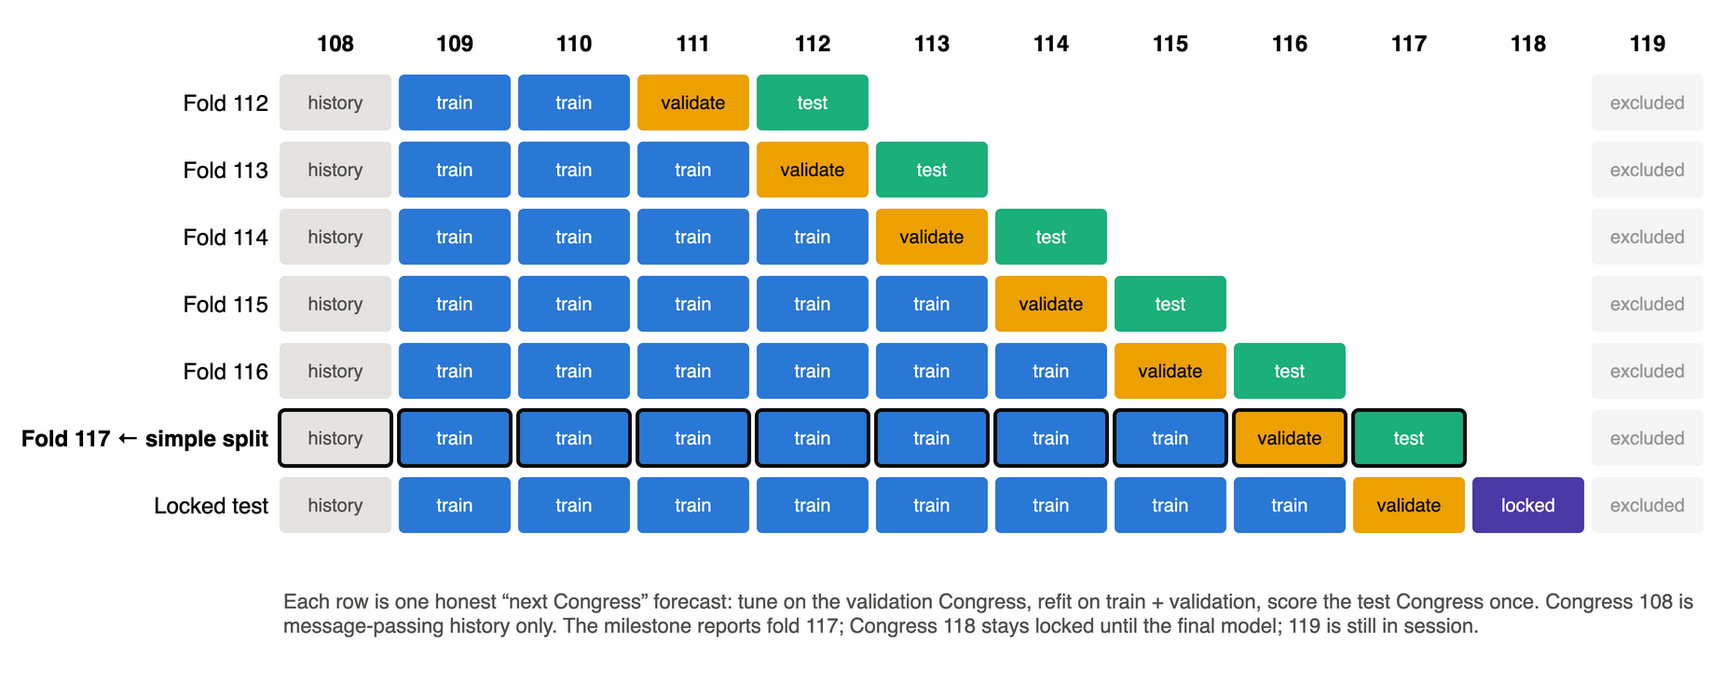
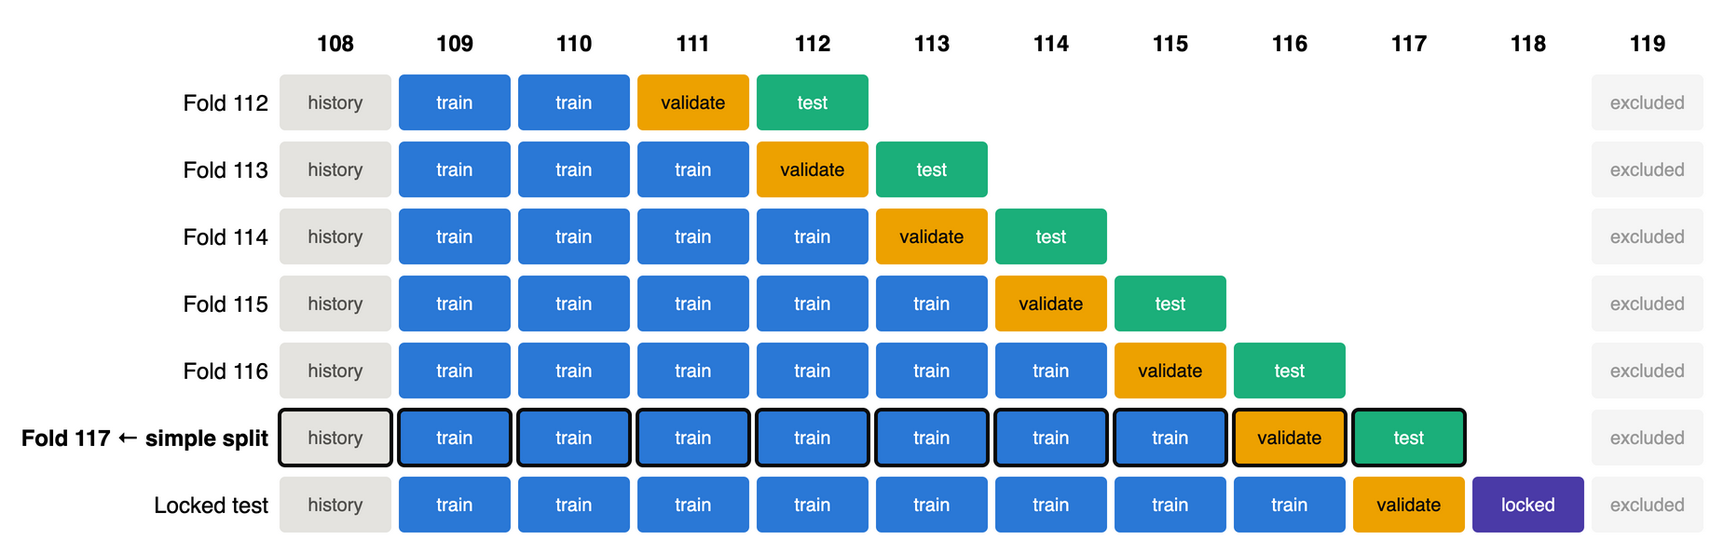
Updated the README

diff --git a/PROJECT_MILESTONE.md b/PROJECT_MILESTONE.md
@@ -3,7 +3,7 @@
 **Project milestone (first draft of the final report)** · CS224W, Fall 2026
 Andrew Lawlor (`adlawlor@stanford.edu`) · Alex Rivas (`alex502@stanford.edu`)
 
-> **TL;DR.** We turned 20 years of U.S. Congress records (Congresses 108–118, about 154,000 bills and 1.9 million cosponsorships) into a leak-free temporal graph. On it we set up two prediction tasks: **will a bill advance out of committee**, and **who will cosponsor it next**. This milestone establishes strong baselines for both: simple heuristics, a gradient-boosted tree, and three GNNs (HeteroSAGE, R-GCN, LightGCN). The GNNs beat every heuristic by about 30% on cosponsor prediction. On bill advancement, a tabular model on the bill's own features is as strong as the GNNs. The next phase of the project is to make the graph earn its keep.
+> **TL;DR.** We turned 20 years of U.S. Congress records (Congresses 108–118, about 154,000 bills and 1.9 million cosponsorships) into a leak-free temporal graph. On it we set up two prediction tasks: **will a bill advance out of committee**, and **who will cosponsor it next**. This milestone establishes strong baselines for both: simple heuristics, tabular models, and three GNNs (HeteroSAGE, R-GCN, LightGCN). The GNNs beat every heuristic by about 30% on cosponsor prediction. On bill advancement, a tabular model on the bill's own features is as strong as the GNNs. The next phase of the project is to make the graph earn its keep.
 
 ---
 
@@ -15,10 +15,7 @@ Legislative staff, advocacy groups and government-affairs platforms (Quorum, Fis
 
 ### Sources
 
-- **GovInfo BILLSTATUS bulk data** [9]: one XML record per bill, with its sponsor, cosponsors (and the date each signed on), committee referrals and every action. There are 173,437 files covering Congresses 108–119.
-- **Congress.gov API** [8]: legislators per Congress (party, state, chamber, terms) and committee metadata. We fetched it with a rate-limited client.
-
-We parsed everything with a Spark ETL into 21 Parquet tables partitioned by Congress. The schema and row counts are in Figure 1.
+All data comes from the **Congress.gov API** [8]: legislators, committees, and every bill with its sponsor, cosponsors (and the date each signed on), committee referrals and actions. For the bill records we used the API's bulk-download equivalent, the **BILLSTATUS** files published on GovInfo [9]. Figure 1 shows the resulting tables.
 
 ![Figure 1](docs/figures/fig_schema_compact.png)
 
@@ -30,57 +27,40 @@ We parsed everything with a Spark ETL into 21 Parquet tables partitioned by Cong
 |---|---|---|
 | Time range | Congresses 108–118 (2003–2024); 119 excluded | 119 is still in session, so its outcomes are unknown |
 | Bills | Law-capable types only: HR, S, HJRES, SJRES (128,791 bills) | Simple and concurrent resolutions cannot become law |
-| Parsing | All 173,437 XML files parsed with 0 errors; 13 legacy-format files handled | Every record makes it into the tables |
+| Parsing | Converted the API data from XML into Parquet tables (173,437 XML files) | Columnar tables, partitioned by Congress, are fast to load and join |
 | Cosponsorships | 1,771 withdrawn cosponsorships removed (1.92M remain) | A withdrawn signature is not support |
-| Point-in-time facts | Party as of each Congress (99.9% agreement with the party printed on that Congress's bills); candidate pools = members in office at the prediction date | Legislators switch parties and chambers; using today's values would leak the future |
+| Point-in-time facts | Describe each legislator as they were *during that Congress* (their party and chamber then, not today). Only members actually in office on the prediction date count as possible cosponsors | Legislators switch parties, change chambers and leave office; using today's values would leak information from the future |
 | Censoring | Drop bills whose label window runs past the end of their Congress | Bills die at adjournment, so their outcome can never be observed |
 | Leaky fields | Never use legislative subjects, CRS summaries, later text versions, final counts (e.g. total cosponsors) or, for advancement, the policy area | These are written or updated *after* introduction and encode the outcome |
 
-## 3. Tasks and metrics
+## 3. Evaluation protocol (shared by both tasks)
 
-We study two tasks on the same graph. Both are predicted **at the moment a bill is introduced** (prediction time *t0* = 0; cosponsor prediction also at *t0* = 7 days later), using only information dated on or before that moment.
-
-### 3.1 Bill advancement (node classification)
-
-**Question:** will a law-capable bill be **reported out of committee within 180 days** of introduction? Most bills never get that far: only 5.6% of the 110,802 uncensored bills do, and 2.8% in our test Congress.
-
-**Metrics: AUROC (headline) and average precision (AP).**
-- **Accuracy is useless here.** A model that predicts "no" for every bill is 97% accurate.
-- **AUROC** is the probability that a random advancing bill is scored above a random stalled one. It needs no decision threshold, and it does not depend on the base rate, which varies between Congresses (from about 3% to 9%). That makes it the fairest number for comparing models across Congresses. Random = 0.5.
-- **AP** focuses on the top of the ranking, which is what a user acting on the top predictions cares about. Random AP equals the positive rate (0.028), so it shows how far above chance a model is.
-- In the proposal we named AP as primary. Our split study then showed the base rate drifts between Congresses, so we now lead with AUROC and always report AP next to it. Both metrics rank the baselines almost identically.
-
-### 3.2 Cosponsor prediction (temporal link prediction)
-
-**Question:** given a new bill, rank every legislator who could still sign on (same chamber, in office, not the sponsor, not already a cosponsor) by how likely they are to **cosponsor within the next 30 days**.
-
-**Metric: Recall@20 (headline), plus Recall@10 and NDCG@20.**
-- **It matches the use case.** Recall@20 is the share of a bill's true new cosponsors that appear in the model's top 20, a realistic shortlist for staff deciding whom to contact.
-- **It treats bills equally.** It divides by the number of true cosponsors, so a bill with 1 new cosponsor counts as much as a bill with 30. Precision would be dominated by the popular bills.
-- **It ranks the full pool.** We score all ~435 House members (or ~100 senators) for every bill, never a sampled subset, so the number reflects the real difficulty.
-- **NDCG@20** additionally rewards putting the true cosponsors near the top of the list.
-
-## 4. Evaluation protocol
+Both tasks predict **at the moment a bill is introduced** (prediction time *t0* = 0; cosponsor prediction also at *t0* = 7 days later), using only information dated on or before that moment. Two design choices make this honest: a temporal split, and graphs built as of the prediction time.
 
 ### A temporal split by Congress
 
-A random split leaks the future: 45% of evaluation bills would have a related bill introduced *later* sitting in the training set. A within-Congress split (as in Russo et al. [1]) leaves most late-session bills without an observable outcome. So we split **by whole Congresses, in time order**, as rolling "next Congress" forecasts (Figure 2).
+A random split leaks the future: 45% of evaluation bills would have a related bill introduced *later* sitting in the training set. A within-Congress split, as in Russo et al. [1], leaves most late-session bills without an observable outcome. So we split **by whole Congresses, in time order**.
 
-**This milestone reports the simple split, fold 117:**
-- train on 108–115 and validate on 116;
-- retrain on 108–116 with the chosen settings, and test on 117.
+**Each row of Figure 2 is one fold.** Fold *c* is an honest forecast of Congress *c* that uses only earlier Congresses:
+- Train on Congresses up to *c*−2.
+- Tune hyperparameters and pick the stopping epoch on Congress *c*−1 (validation).
+- Retrain on everything up to *c*−1 with those settings, and score Congress *c* (test) once.
 
-All hyperparameters are chosen on validation only. Congress 118 is locked until the final model.
+**Why Congress 108 is history only.** Each Congress's graph is built from the bills of the three Congresses before it. Congress 108 is the first in our data, so it has no earlier Congresses: a training example from 108 would see an empty history, which never happens at test time. Its bills and edges are still used as history for 109–111; they are just never used as training examples.
+
+**Why fold 117 is the simple split.** This milestone reports one fold: train on 109–115, validate on 116, retrain on 109–116, test on 117. It is the most recent fold whose test Congress is complete and settled. It is also exactly the last of the six development folds (112–117), so the simple split is not a separate setup: moving to the full protocol means running the same code on the other five folds and comparing models on the average.
+
+**The locked test (Congress 118).** Congress 118 is the most recent completed Congress, and we hold it back. It is never used to tune or choose anything. It is scored **once**, at the very end, with the final model frozen (train up to 116, validate on 117, retrain up to 117, test on 118). Keeping one Congress untouched protects the final number from the many small choices made while developing on folds 112–117. Congress 119 is excluded entirely because it is still in session.
 
 ![Figure 2](docs/figures/fig_rolling_split.png)
 
-*Figure 2: Rolling-origin evaluation. Each row is one forecast of the next Congress. The milestone uses fold 117; the final report averages folds 112–117 and scores the locked Congress 118 once.*
+*Figure 2: Rolling-origin evaluation folds.*
 
 ### Graphs built as of the prediction time
 
 Message passing over the full graph would let a bill "see" cosponsorships that happen after its prediction time. For every target Congress *k* we therefore build one graph (Figure 3):
 
-- **History part.** Legislators, committees and the bills of the three previous Congresses, connected in both directions.
+- **History part.** Legislators, committees and the bills of the three previous Congresses, with edges in both directions.
 - **Target part.** Each new bill of Congress *k* is attached only through **incoming** edges dated on or before its cutoff: its sponsor, its cosponsors so far, and its committee referrals. No edge leaves a target bill, so target bills cannot see each other or the future.
 - **Current-Congress signal.** For cosponsor prediction, what happened earlier in the same Congress (for example, how often a candidate has backed this sponsor this session) enters as leak-free pair features, computed exactly up to each bill's cutoff day.
 
@@ -88,47 +68,66 @@ Automated tests delete every event after a cutoff and confirm that no input chan
 
 ![Figure 3](docs/figures/fig_leakfree_graph.png)
 
-*Figure 3: Leak-free graph for target Congress k. History is bidirectional; target bills only receive edges dated before their cutoff; labels are never edges.*
+*Figure 3: Leak-free graph for target Congress k. History edges run both ways; target bills only receive edges dated before their cutoff; labels are never edges.*
 
-## 5. Baselines
+## 4. Models and training (shared by both tasks)
 
-### Reference models (no message passing)
+### Three GNN encoders
 
-- **Heuristics:** popularity, same party, **sponsor history** (how often a legislator backed this sponsor before), and a **2-hop random walk**. For advancement: the historical report rate of the bill's committee.
-- **Tabular models on the bill's own features:** gradient-boosted trees and logistic regression. They tell us how much signal exists without any graph.
-- **PairMLP:** the GNN architecture with message passing switched off. Comparing the GNNs against it isolates what message passing adds.
+All three turn each node's own features (party, chamber, activity, bill type, …) into an embedding by repeatedly mixing in information from its neighbours, two hops deep. They differ in *how* they mix:
 
-### GNN baselines and why we chose them
+- **HeteroSAGE** (GraphSAGE [10] applied per relation): each node averages its neighbours separately for each kind of edge (sponsor, cosponsor, referral, …) and combines the results with its own features. It works from features rather than IDs, so it handles nodes never seen in training.
+- **R-GCN** [3]: each kind of edge gets its own learned transformation. To keep the model small, the 11 edge types share 4 basis matrices and each type learns how to mix them.
+- **LightGCN-feat** [11]: no learning inside the propagation. Node features are spread along the graph with a fixed normalized average, and an MLP learns from the result. It tests whether *learned* message passing is needed at all.
 
-| Model | Why it is a good baseline here |
-|---|---|
-| **HeteroSAGE** (GraphSAGE per relation, Hamilton et al. [10]) | *Inductive*: builds a node's representation from its features and neighbours, so it can score legislators and bills it never saw in training (13% of test cosponsors are new legislators). Mean aggregation keeps a prolific cosponsor and a freshman on the same scale. |
-| **R-GCN** (Schlichtkrull et al. [3]) | Relation-specific weights for our 11 edge types, with basis decomposition (4 bases) to limit parameters; the encoder family used by the closest prior work on cosponsorship [1]. |
-| **LightGCN-feat** (He et al. [11]) | Tests whether *learned* message passing is needed at all: fixed GCN-normalized diffusion of node features, followed by an MLP. It's a strong, cheap recommender-system baseline. |
+We also train **PairMLP**: the same model with message passing switched off. The only difference between PairMLP and the GNNs is the graph, so comparing against it isolates what message passing adds. We did not use **GIN**: its extra expressive power matters for classifying whole graphs, not for feature-rich node and link prediction. **HGT** is our candidate for the improved model.
 
-We did not use **GIN**: it targets whole-graph classification, where its extra expressive power matters, not feature-rich link and node prediction. **HGT** is our candidate for the improved model.
-
-All three GNNs share the same input encoders and output heads (Figure 4). That way, a difference in results comes from the message passing alone.
+All models share the same input encoders and output heads (Figure 4).
 
 ![Figure 4](docs/figures/fig_model_pipeline.png)
 
-*Figure 4: Shared pipeline. One encoder per model; a node head for advancement and a link head (two-tower dot product plus a pair-feature MLP) for cosponsor prediction.*
+*Figure 4: Shared pipeline. One encoder per model; a node head for bill advancement and a link head (two-tower dot product plus a pair-feature MLP) for cosponsor prediction.*
 
-### Training recipe
+### Shared training recipe
 
 | Choice | Setting | Reason |
 |---|---|---|
-| Cosponsor loss | Listwise softmax over each bill's **full** eligible pool | Optimizes the ranking directly; no negative sampling needed, and the pool already contains hard negatives (same party, same state). BPR was 0.003–0.005 Recall@20 worse. |
-| Advancement loss | Binary cross-entropy, no class weights | AUROC and AP are rank-based, so reweighting does not help |
 | Optimizer | AdamW, lr 3e-3 (1e-3 for LightGCN), weight decay 1e-4, gradient clipping at 1.0 | Standard for small GNNs; as in [1] |
 | Schedule | 5% warmup, then cosine decay | Stable training on a few large graphs |
 | Architecture | 2 layers, hidden size 128, dropout 0.2, DropEdge 0.1 | Two hops cover legislator → bill → legislator; deeper did not help |
-| Model selection | Early stopping on the validation Congress (3-epoch moving average), then refit on train + validation for the same number of epochs | Uses validation only; test is scored once |
-| Robustness | 3 seeds; paired bootstrap CIs over sponsors | Single-seed differences below about 0.01 are noise |
+| Model selection | Early stopping on the validation Congress (3-epoch moving average), then retrain on train + validation for the same number of epochs | Uses validation only; test is scored once |
+| Robustness | 3 seeds; paired bootstrap confidence intervals over sponsors | Single-seed differences below about 0.01 are noise |
+| Hyperparameters | One round of one-factor-at-a-time search on validation only | The validation surface was flat: only one change (LightGCN dropout 0.5 for advancement) beat seed noise |
 
-Graphs are trained full-batch, one graph per Congress. PyG's neighbour sampler needs compiled extensions we chose not to require, and a full-batch layer over 2M edges takes about 0.1 s on a laptop CPU. The whole baseline notebook runs in about 12 minutes on CPU.
+Graphs are trained full-batch, one graph per Congress, and the whole baseline notebook runs in about 12 minutes on a laptop CPU.
 
-## 6. Results: bill advancement
+## 5. Bill advancement
+
+### 5.1 Task and metrics
+
+**Question (node classification):** will a law-capable bill be **reported out of committee within 180 days** of introduction? Most bills never get that far: only 5.6% of the 110,802 uncensored bills do, and 2.8% in our test Congress (117).
+
+**Metrics: AUROC (headline) and average precision (AP).**
+- **Accuracy is useless here.** A model that predicts "no" for every bill is 97% accurate.
+- **AUROC** is the probability that a random advancing bill is scored above a random stalled one. It needs no decision threshold, and it does not depend on the base rate, which varies between Congresses (from about 3% to 9%). That makes it the fairest number for comparing models across Congresses. Random = 0.5.
+- **AP** focuses on the top of the ranking, which is what a user acting on the top predictions cares about. Random AP equals the positive rate (0.028), so it shows how far above chance a model is.
+
+### 5.2 Baselines and why they fit this task
+
+| Model | Why it is a sensible baseline for advancement |
+|---|---|
+| Prior (random) | The floor: what AUROC and AP look like with no information |
+| Committee report rate | Committees are the gatekeepers: a bill only advances if its committee reports it. A committee's historical report rate is the obvious domain heuristic |
+| Logistic regression, gradient-boosted trees (bill features) | Advancement is a property of a single bill: who sponsors it, whether they are in the majority, which committees it goes to, how many original cosponsors it has. A strong tabular model on those features tells us how much signal exists **without any graph**; gradient-boosted trees are the standard baseline in relational benchmarks [5] |
+| PairMLP | The neural model without message passing, so any GNN gain over it comes from the graph |
+| HeteroSAGE | A bill's chances depend on its sponsor's and committees' track records; HeteroSAGE pulls those in by averaging over the bill's neighbours, and stays inductive for new sponsors |
+| R-GCN | "Sponsored by" and "referred to" carry very different meaning for advancement; R-GCN learns a separate transformation per edge type |
+| LightGCN-feat | Smooths the sponsors' and committees' history signals over the graph cheaply, to test whether a learned propagation is needed |
+| Kumo Relational (in progress) | A relational foundation model [6, 7] that learns from the database directly, a reference point for what automatic relational learning achieves |
+
+**Loss:** binary cross-entropy, no class weights. AUROC and AP depend only on the ranking, so reweighting the rare positives does not help.
+
+### 5.3 Results
 
 Test Congress 117 has 12,953 bills, 2.8% positive. Learned models show the mean over 3 seeds; brackets are 95% bootstrap CIs.
 
@@ -146,50 +145,96 @@ Test Congress 117 has 12,953 bills, 2.8% positive. Learned models show the mean 
 
 **What this shows.** The learned models clearly beat the heuristics (+0.08 AUROC over the committee report rate). But most of the signal sits in the bill's own features: who sponsors it, which committees it goes to, and how many original cosponsors it has. Gradient-boosted trees on those features alone reach 0.820. HeteroSAGE and R-GCN do not beat them, and LightGCN only ties them (+0.005, within noise). For this task, a tabular model is the bar the graph has to clear.
 
-### 6.1 Kumo Relational baseline (in progress)
+### 5.4 Kumo Relational baseline (in progress)
 
-*Placeholder for the Kumo Relational foundation-model baseline [6, 7], run by our teammate.* For a fair comparison it must use the same definitions as the table above:
+*Placeholder for the Kumo Relational foundation-model baseline [6, 7]* 
+For a fair comparison it must use the same definitions as the table above:
 - **Label:** reported out of committee within 180 days.
 - **Population:** HR, S, HJRES and SJRES bills.
-- **Split:** train 108–115, validate 116, test 117.
+- **Split:** train on Congresses up to 115, validate on 116, test on 117.
 - **Censoring:** censored bills dropped, leaving 12,953 test bills.
 - **Prediction time:** the bill's introduction date, with no later information.
 
 Results and per-bill predictions (for paired CIs) will be added here.
 
-## 7. Results: cosponsor prediction
+## 6. Cosponsor prediction
+
+### 6.1 Task and metrics
+
+**Question (temporal link prediction):** given a new bill, rank every legislator who could still sign on (same chamber, in office, not the sponsor, not already a cosponsor) by how likely they are to **cosponsor within the next 30 days**.
+
+**Metric: Recall@20 (headline), plus Recall@10 and NDCG@20.**
+- **It matches the use case.** Recall@20 is the share of a bill's true new cosponsors that appear in the model's top 20, a realistic shortlist for staff deciding whom to contact.
+- **It treats bills equally.** It divides by the number of true cosponsors, so a bill with 1 new cosponsor counts as much as a bill with 30. Precision would be dominated by the popular bills.
+- **It ranks the full pool.** We score all ~435 House members (or ~100 senators) for every bill, never a sampled subset, so the number reflects the real difficulty.
+- **NDCG@20** additionally rewards putting the true cosponsors near the top of the list.
+
+### 6.2 Baselines and why they fit this task
+
+| Model | Why it is a sensible baseline for cosponsor prediction |
+|---|---|
+| Party + popularity | 76.6% of cosponsorships are same-party, and some legislators simply cosponsor far more than others |
+| Sponsor history | The strongest single signal: 54.7% of cosponsorships come from someone who already backed the same sponsor earlier in the Congress |
+| 2-hop random walk | "Friends of friends": legislators who cosponsor alongside the sponsor's usual supporters are likely next |
+| Learned embeddings (SVD) | Classic collaborative filtering from recommender systems: legislator–bill matrix factorization. It cannot score legislators it never saw |
+| "+ current Congress" variants | The same heuristics, also counting what happened earlier in the same session, up to the bill's cutoff |
+| PairMLP | Learns how to combine the leak-free pair features (sponsor history, co-support, same party/state, same-session activity) with legislator features, without message passing |
+| HeteroSAGE | Inductive: builds legislators from features and neighbours, so it can rank the 13% of test cosponsors who are new legislators |
+| R-GCN | Sponsoring, cosponsoring and sharing a committee are different relationships; R-GCN weighs each separately |
+| LightGCN-feat | Comes from recommender systems, where users and items form a bipartite graph, just like legislators and bills |
+
+**Loss:** a listwise softmax over each bill's **full** eligible pool. It optimizes the ranking directly, needs no negative sampling, and the pool already contains hard negatives (same party, same state). The pairwise BPR loss was 0.003–0.005 Recall@20 worse.
+
+### 6.3 Results
 
 Prediction at introduction (*t0* = 0). Test Congress 117 has 5,101 bills with at least one new cosponsor. Learned models show the mean over 3 seeds.
 
 | Model | Val Recall@20 (116) | Test Recall@20 (117) | Test Recall@10 | Test NDCG@20 |
 |---|---|---|---|---|
-| Party + popularity | 0.204 | 0.191 [0.174, 0.208] | 0.113 | 0.115 |
-| Sponsor history (earlier Congresses only) | 0.254 | 0.262 [0.245, 0.279] | 0.173 | 0.166 |
-| Learned embeddings (SVD) | 0.276 | 0.283 [0.265, 0.303] | 0.191 | 0.182 |
-| Sponsor history (+ current Congress) | 0.288 | 0.307 [0.291, 0.325] | 0.204 | 0.193 |
-| 2-hop random walk (+ current Congress) | 0.286 | 0.308 [0.291, 0.325] | 0.199 | 0.192 |
-| PairMLP (no message passing) | 0.367 | 0.386 [0.369, 0.407] | 0.251 | 0.241 |
-| HeteroSAGE | 0.375 | 0.393 [0.374, 0.414] | 0.254 | 0.245 |
-| R-GCN | 0.374 | 0.394 [0.375, 0.415] | 0.257 | 0.245 |
-| **LightGCN-feat** | 0.371 | **0.400** [0.381, 0.420] | **0.260** | **0.249** |
+| Party + popularity | 0.204 | 0.191 | 0.113 | 0.115 |
+| Sponsor history (earlier Congresses only) | 0.254 | 0.262 | 0.173 | 0.166 |
+| Learned embeddings (SVD) | 0.276 | 0.283 | 0.191 | 0.182 |
+| Sponsor history (+ current Congress) | 0.288 | 0.307 | 0.204 | 0.193 |
+| 2-hop random walk (+ current Congress) | 0.286 | 0.308 | 0.199 | 0.192 |
+| PairMLP (no message passing) | 0.367 | 0.386 | 0.251 | 0.241 |
+| HeteroSAGE | 0.375 | 0.393 | 0.254 | 0.245 |
+| R-GCN | 0.374 | 0.394 | 0.257 | 0.245 |
+| **LightGCN-feat** | 0.371 | **0.400** | **0.260** | **0.249** |
 
 **What this shows.**
 - **Every GNN beats the best heuristic by about 0.09 Recall@20**, roughly 30% better. In practice, the model's top 20 contains about 40% of a bill's future cosponsors, against 31% for the best heuristic.
-- **Most of the gain is already in PairMLP.** That gain comes from learning to combine leak-free pair features (sponsor history, co-support, same-session activity) with point-in-time legislator features.
+- **Most of the gain is already in PairMLP.** It comes from learning to combine leak-free pair features with point-in-time legislator features.
 - **Message passing adds little so far.** Only LightGCN clearly beats PairMLP (+0.013 over 3 seeds); the three GNNs cannot be ranked against each other.
 - **New legislators** (13% of test cosponsors) are found in the top 20 about 23% of the time by the learned models, against 5% for the heuristics. That is the payoff of inductive features.
 
-## 8. Next steps
+## 7. Next steps: how can we make message passing matter?
 
-1. **Make message passing matter.** Try HGT, and give the encoder more of what the heuristics already exploit: time-aware edges and attention over relation types. Measure each gain against PairMLP and gradient-boosted trees, not only the heuristics.
-2. **Answer the research question** for cosponsor prediction: how much does the first week of support help? Compare predicting at day 0 with predicting at day 7.
-3. **Run the full protocol:** six rolling folds (112–117) with paired tests, then score the locked Congress 118 once.
-4. **Ablations:** remove edge types (committees, history bills), and break results down by party, chamber and new vs returning legislators.
-5. **Add the Kumo Relational baseline** for bill advancement (Section 6.1).
+On both tasks, almost all of the gain over heuristics comes from features the model sees *without* the graph: the bill's own features for advancement, the hand-built pair features for cosponsor prediction. The central question for the rest of the project is how to get more out of the graph itself.
+
+### Techniques to try
+
+1. **Attention over relations and neighbours.** HGT or GATv2 let a bill weigh *which* cosponsors and committees matter instead of averaging them all equally.
+2. **Time inside message passing.** Encode how long ago each edge happened (time encodings as in TGAT, or recency-decayed messages), so recent collaborations count more than old ones.
+3. **A direct legislator–legislator graph.** Add co-cosponsorship edges between legislators. Today a collaboration is two hops away (legislator → bill → legislator), which averaging dilutes.
+4. **Link-prediction-aware GNNs.** Plain GNNs score a bill and a legislator separately and then compare them, so they struggle to recover pair signals like "has this legislator backed this sponsor before". Labeling-trick methods (SEAL, NBFNet) encode the pair inside the message passing.
+5. **Hybrid node representations.** Add learned ID embeddings for returning legislators on top of their features, keeping the features for new legislators.
+6. **Harder training signal.** Hard-negative mining and curriculum learning, as in PinSAGE, for cosponsor prediction.
+7. **Richer leak-free node features.** Better embeddings of the introduced title (only the version at introduction), and the policy areas of *finished* history bills.
+8. **Stacking and multi-task learning.** Feed GNN embeddings into gradient-boosted trees for advancement, and train both tasks jointly on the shared encoder.
+
+### Ablations and other tests
+
+- **Remove the pair features** from the GNNs: can message passing recover them from the graph alone?
+- **Remove edge types** one at a time (committees, history bills, cosponsor edges) to see which relations carry signal.
+- **Remove the current-Congress signal**, and vary the history window (2, 3 or 4 previous Congresses).
+- **Answer the research question:** how much does the first week of support help? Compare predicting at day 0 with predicting at day 7.
+- **Break results down** by chamber, party, majority vs minority sponsors, and new vs returning legislators.
+- **Run the full protocol:** six rolling folds (112–117) with paired tests, then score the locked Congress 118 once.
+- **Add the Kumo Relational baseline** for bill advancement (Section 5.4).
 
 ## Code
 
-- `data_processing/`: data download (`bulk_bill_download.sh`, `fetch_congress.py`) and the Spark ETL (`parsers.py`).
+- `data_processing/`: data download (`bulk_bill_download.sh`, `fetch_congress.py`) and the XML-to-Parquet ETL (`parsers.py`).
 - `notebooks/01_split_analysis.ipynb`: evidence for the split.
 - `notebooks/02_baselines.ipynb`: every baseline in this report. Run instructions are in `docs/BASELINES_RUN.md`, and every model, loss and hyperparameter choice is documented in `docs/BASELINES.md`.
 
